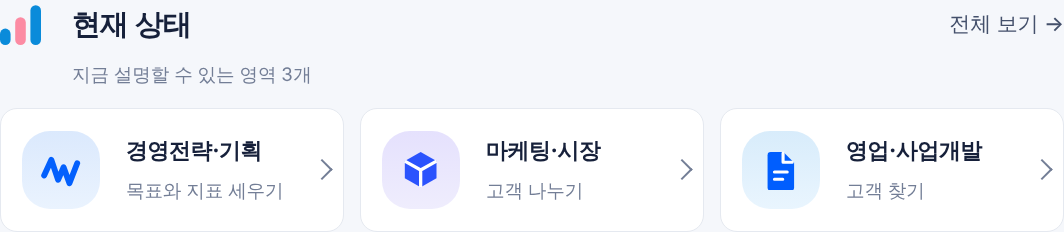
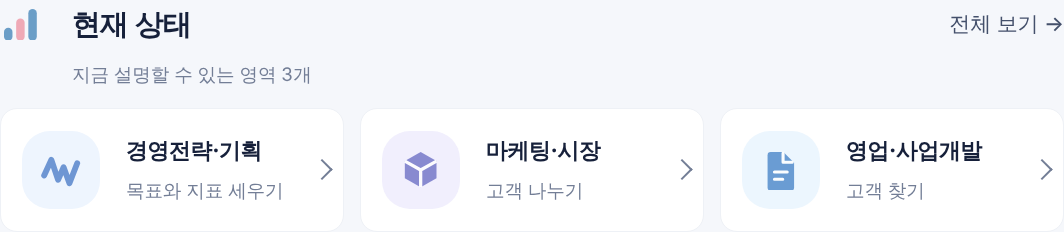
R27 SCENE 1: 숫자를 다시 재지 않고 무게만 낮췄다
사람 검수가 Hierarchy · Visual Character · Copy Naturalness ·
Reference Resemblance 를 PARTIAL 로 적었다. 남은 것이 숫자가 아니라
visual weight 라서 geometry 와 spacing 을 한 자리도 건드리지 않았다.

절 머리: 색을 낮추고 잉크를 칸의 80% 로 들여 제목이 첫 위계가 된다.
칸(41)은 그대로다: 줄이면 표시와 이름 사이가 같이 줄어 한 덩이로
읽히던 머리가 흩어진다.

카드: 테를 한 단 옅게, 배지의 기울기를 걷고 색면 하나로, 글리프 색을
낮추고 짙기를 데스크톱 .8 · 손전화 .6 으로. **낮춘 것이 크기가 아니라
짙기다**: 배지 안 그림이 41 그대로라 probe 가 벌어진 자리 0 이다.

손전화는 따로 잡았다. 좁은 화면의 읽는 차례가 현재 상태 → 영역 이름 →
한 줄 → 꺾쇠 → 표시여야 해서 글리프를 한 단 더 내렸다.

글자는 한 줄도 바뀌지 않았다. 세부 세 줄(목표와 지표 세우기 · 고객
나누기 · 고객 찾기)이 taxonomy subareas 를 글자 예산으로 자른 값이라
label 로 읽히는 것은 고치지 않고 사람 검수로 올렸다.

회귀: r27-probe 자리 34 · 벌어진 자리 0 · v3:freeze:measure 가 기록을
다시 적지 않은 채로 통과 · 검사 화면 20벌과 작업공간 49벌 그대로 ·
copy:audit 46개 기준선.

판본: ME_V3_RESULT_UI_V70

Claude-Session: https://claude.ai/code/session_01VsLgPeSsVvvXWmRdQnrgMy

diff --git a/pca-platform/src/app/v3/result.css b/pca-platform/src/app/v3/result.css
@@ -161,11 +161,11 @@
      한 단 밝고 짙다 — 같은 크기로 놓아도 **존재감이 거기서 갈린다**.
      이 값을 `--r-blue` 에 덮어쓰지 않는다: 그 토큰은 다른 장면이 함께
      읽고, 그 장면들은 아직 레퍼런스에 대고 다시 세우지 않았다 */
-  --r-mark: #0a8bda;
-  --r-mark-2: #fc8ba3;
-  --r-glyph-0: #0360fd;
-  --r-glyph-1: #2b53fd;
-  --r-glyph-2: #005efe;
+  --r-mark: #6b9ec7;
+  --r-mark-2: #efa9b6;
+  --r-glyph-0: #4f7fc9;
+  --r-glyph-1: #6e71c6;
+  --r-glyph-2: #4a86c9;
   /* ── 역할마다 다른 accent(R5 트렌디 §2·§3) ──
      navy · blue · gray 만 돌면 전문적이지만 보수적으로 읽힌다. 그렇다고
      카드마다 색을 다르게 두면 rainbow UI 가 된다(§4). 그래서 **세 역할
@@ -449,6 +449,10 @@
    그 장면들은 아직 레퍼런스에 대고 다시 세우지 않았고, 공통 자리에서
    색을 바꾸면 손대지 않은 장면이 함께 바뀐다(규격 §6) */
 .rs-st > .rs-sh > i { color: var(--r-mark); }
+/* **표시가 이름보다 먼저 읽히면 안 된다.** 칸(41)은 레퍼런스에서 잰
+   값이라 그대로 두고 그 안의 잉크만 들인다: 상자를 줄이면 표시와 이름
+   사이가 같이 줄어 한 덩이로 읽히던 머리가 흩어진다 */
+.rs-st > .rs-sh > i svg { width: 80%; height: 80%; }
 .rs-sh > h2 {
   margin: 0; font-size: var(--r-t-h2); font-weight: var(--ui-w-bd);
   color: var(--r-ink); letter-spacing: -.025em;
@@ -492,7 +496,7 @@
   align-items: center; align-content: center;
   column-gap: clamp(24px, 1.8vw, 26px); row-gap: 2px;
   min-height: 70px; padding: 8px 18px;
-  border: 1px solid var(--r-line); border-radius: 17px;
+  border: 1px solid var(--r-line-soft); border-radius: 17px;
   background: #ffffff; text-decoration: none; color: inherit;
 }
 @media (min-width: 880px) {
@@ -511,19 +515,26 @@
   grid-column: 1; grid-row: 1 / span 2;
   flex: none; display: grid; place-items: center;
   width: 52px; height: 52px; border-radius: clamp(19px, 1.94vw, 28px);
-  background: linear-gradient(180deg, #dbe9fd 0%, #eaf3fe 100%);
+  background: #eef5fe;
   color: var(--r-glyph-0);
 }
 .rs-tile a[data-t="1"] i {
-  background: linear-gradient(180deg, #e5e1fd 0%, #efedfd 100%);
+  background: #f1effd;
   color: var(--r-glyph-1);
 }
 .rs-tile a[data-t="2"] i {
-  background: linear-gradient(180deg, #d8ecfb 0%, #e9f5fe 100%);
+  background: #ecf6fe;
   color: var(--r-glyph-2);
 }
 @media (min-width: 880px) { .rs-tile i { width: 78px; height: 78px; } }
-.rs-tile i svg { width: 53%; height: 53%; }
+/* **배지는 칸이 무엇인지 알아보는 데까지만 든다.** 낮추는 것은 크기가
+   아니라 무게다: 41 은 레퍼런스에서 잰 값이라 그대로 두고 짙기만
+   내린다. 손전화에서 한 단 더 내리는 까닭은 좁은 화면의 읽는 차례가
+   이름 → 세부 → 꺾쇠 → 표시여야 하기 때문이다 */
+.rs-tile i svg { width: 53%; height: 53%; opacity: .6; }
+@media (min-width: 880px) {
+  .rs-tile i svg { opacity: .8; }
+}
 .rs-tile b {
   grid-column: 2; grid-row: 1;
   font-size: var(--r-t-tile); font-weight: var(--ui-w-bd); line-height: 1.2;

diff --git a/pca-platform/src/lib/me-v3/result/version.ts b/pca-platform/src/lib/me-v3/result/version.ts
@@ -420,7 +420,7 @@ export const RESULT_COPY_VERSION = "me-v3-result-copy.59";
  * **판정도 문장도 바뀌지 않았다.** 그래서 `RESULT_COPY_VERSION` 과
  * `RESULT_MODEL_VERSION` 은 그대로다.
  */
-export const RESULT_UI_VERSION = "ME_V3_RESULT_UI_V69";
+export const RESULT_UI_VERSION = "ME_V3_RESULT_UI_V70";
 
 /*
  * `V22` · `copy.17` 로 올린 까닭. **첫 줄과 종이 첫 두 쪽**(ME 기준 UX
